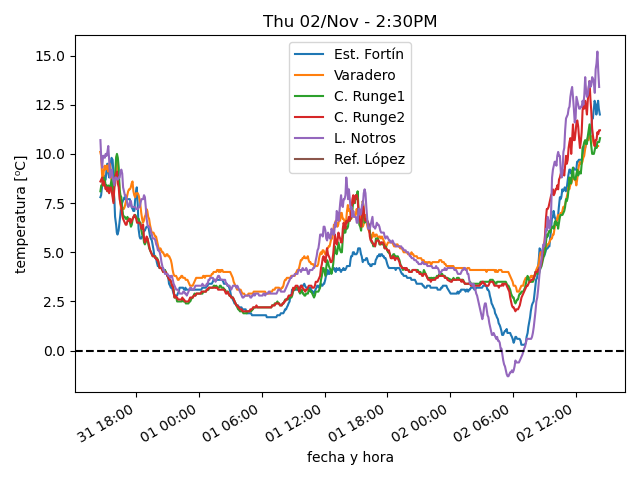
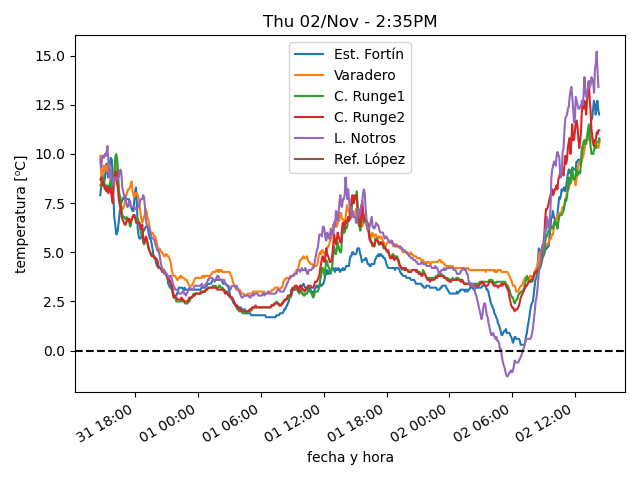
actualiza datos

diff --git a/estaciones/estacion2.html b/estaciones/estacion2.html
@@ -18,32 +18,32 @@
     </tr>
     <tr>
      <td class="stats_data">
-      2:09PM
+      2:24PM
      </td>
     </tr>
     <tr>
      <td class="stats_data">
-      10.4⁰C
+      10.7⁰C
      </td>
     </tr>
     <tr>
      <td class="stats_data">
-      5.2⁰C
+      5.8⁰C
      </td>
     </tr>
     <tr>
      <td class="stats_data">
-      70.1%
+      71.9%
      </td>
     </tr>
     <tr>
      <td class="stats_data">
-      1030.14hPa
+      1029.8hPa
      </td>
     </tr>
     <tr>
      <td class="stats_data">
-      29.3/33.9 km/hr NW
+      26.5/30.8 km/hr NW
      </td>
     </tr>
     <tr>
@@ -53,12 +53,12 @@
     </tr>
     <tr>
      <td class="stats_data">
-      3.0
+      8.0
      </td>
     </tr>
     <tr>
      <td class="stats_data">
-      341.0 W/m²
+      919.6 W/m²
      </td>
     </tr>
    </tbody>
